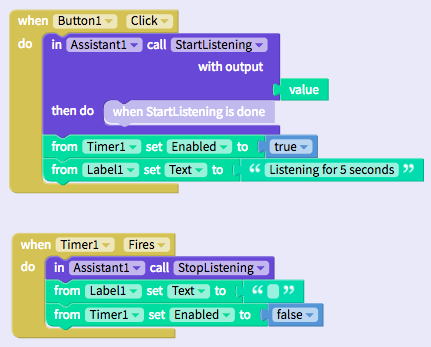
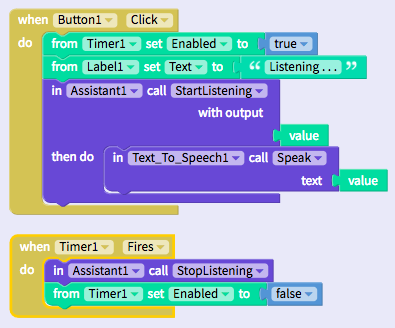
Updates ios/components/voice/assistant.md
Auto commit by GitBook Editor

diff --git a/ios/components/voice/assistant.md b/ios/components/voice/assistant.md
@@ -34,7 +34,7 @@ Amazingly, the Assistant speaks multiple languages--13 in fact with an additiona
 
 #### Triggering the Assistant
 
-The Assistant can be triggered both by text input and by voice.
+The Assistant can be triggered both by voice or a text query.  The result is a text `value` that you can convert to speech with a Text to Speech component
 
 ![](/assets/assistant-ios-fig-4.png)
 
